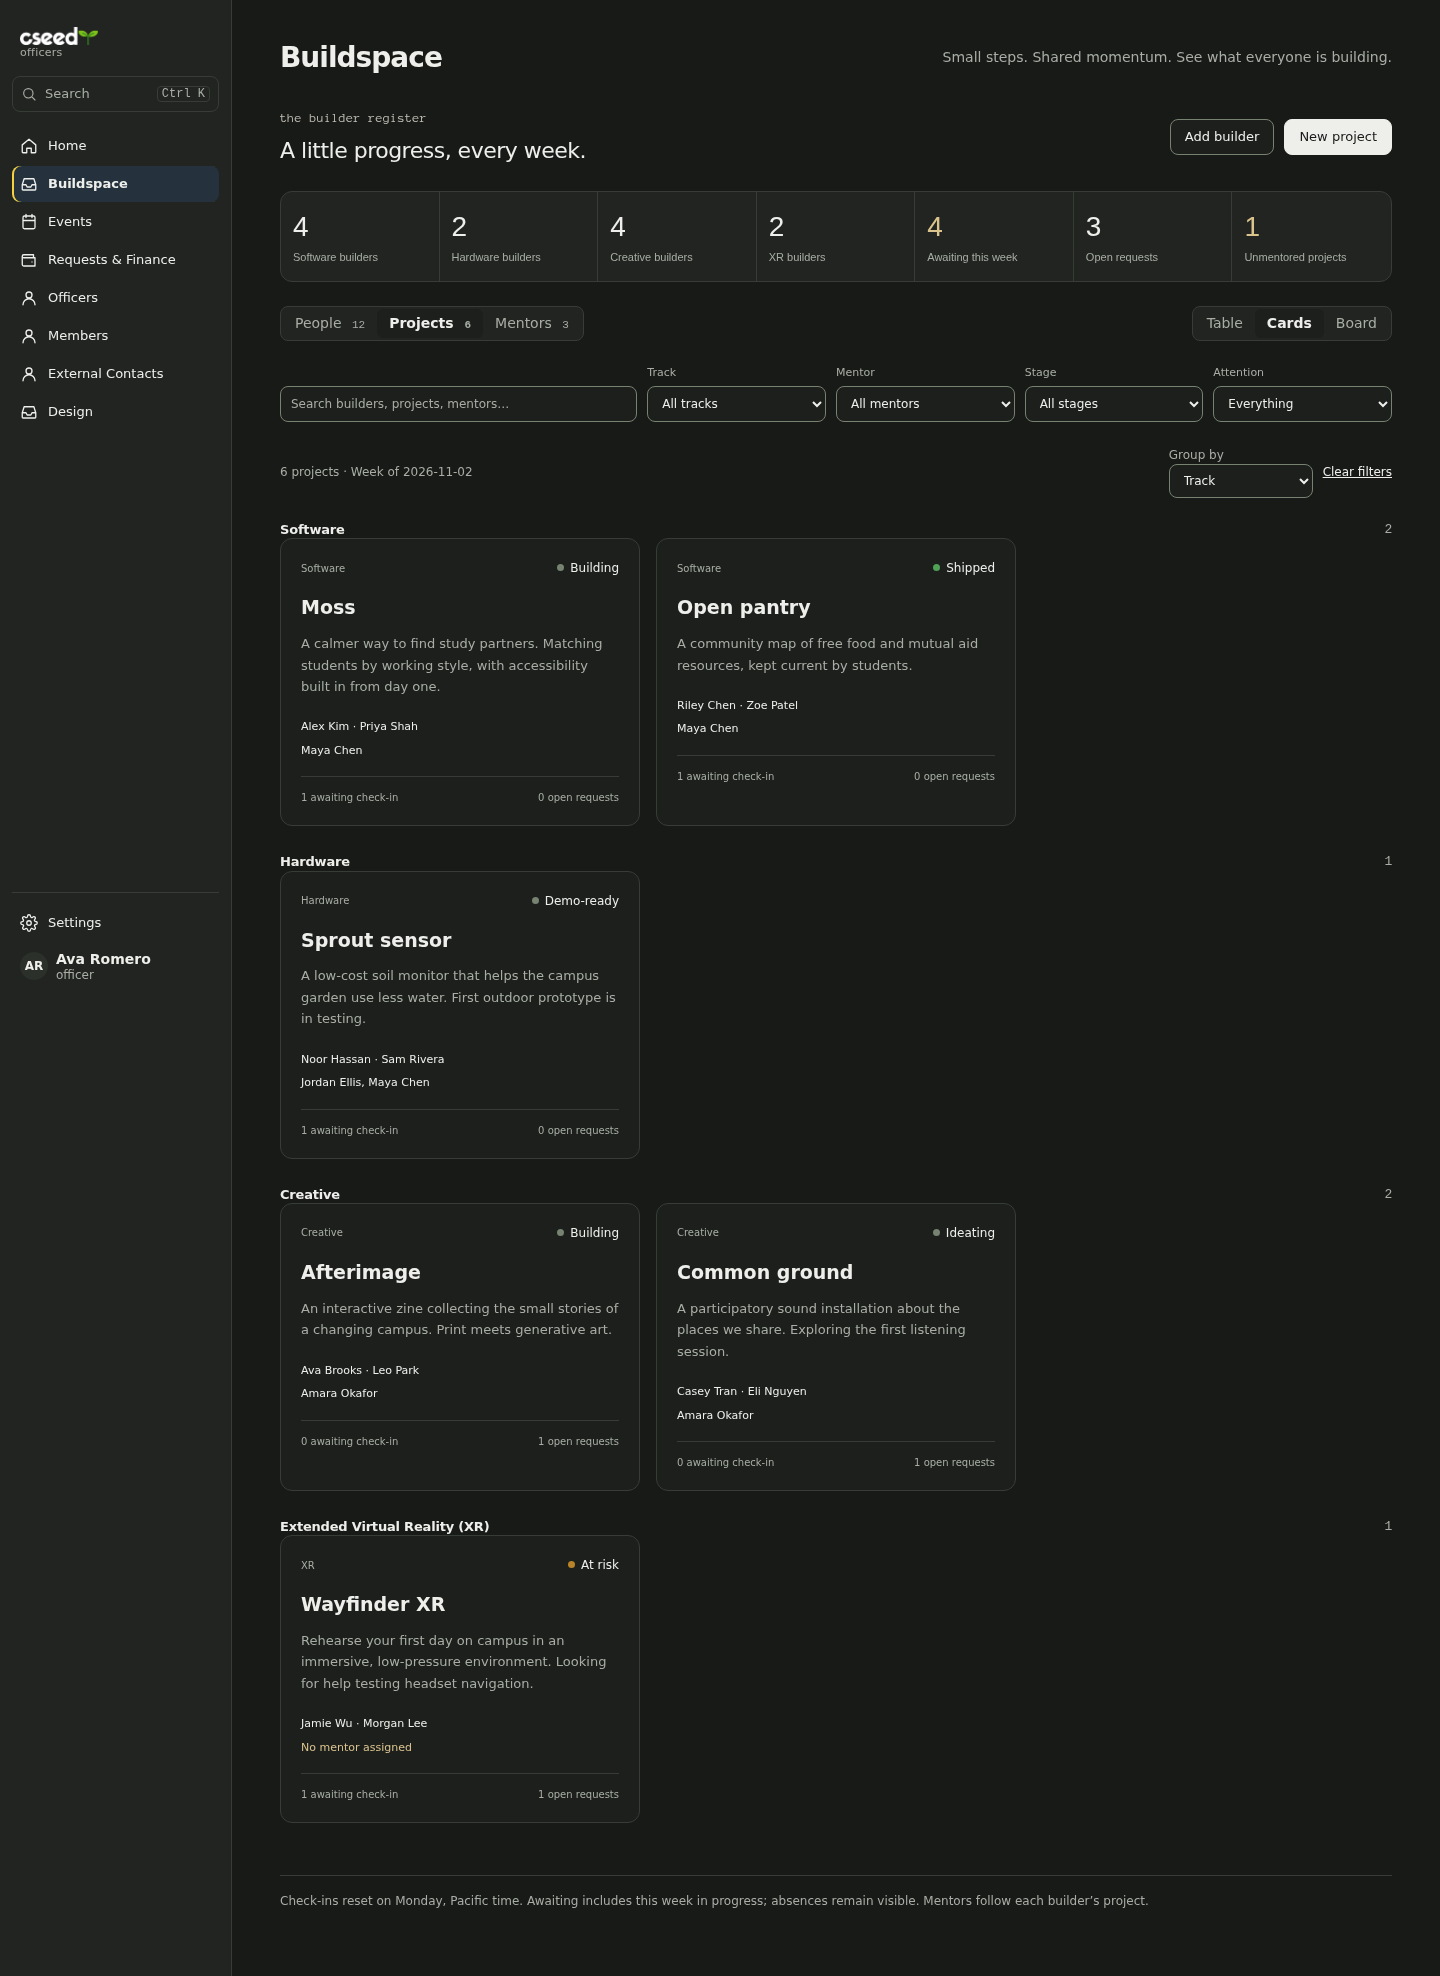
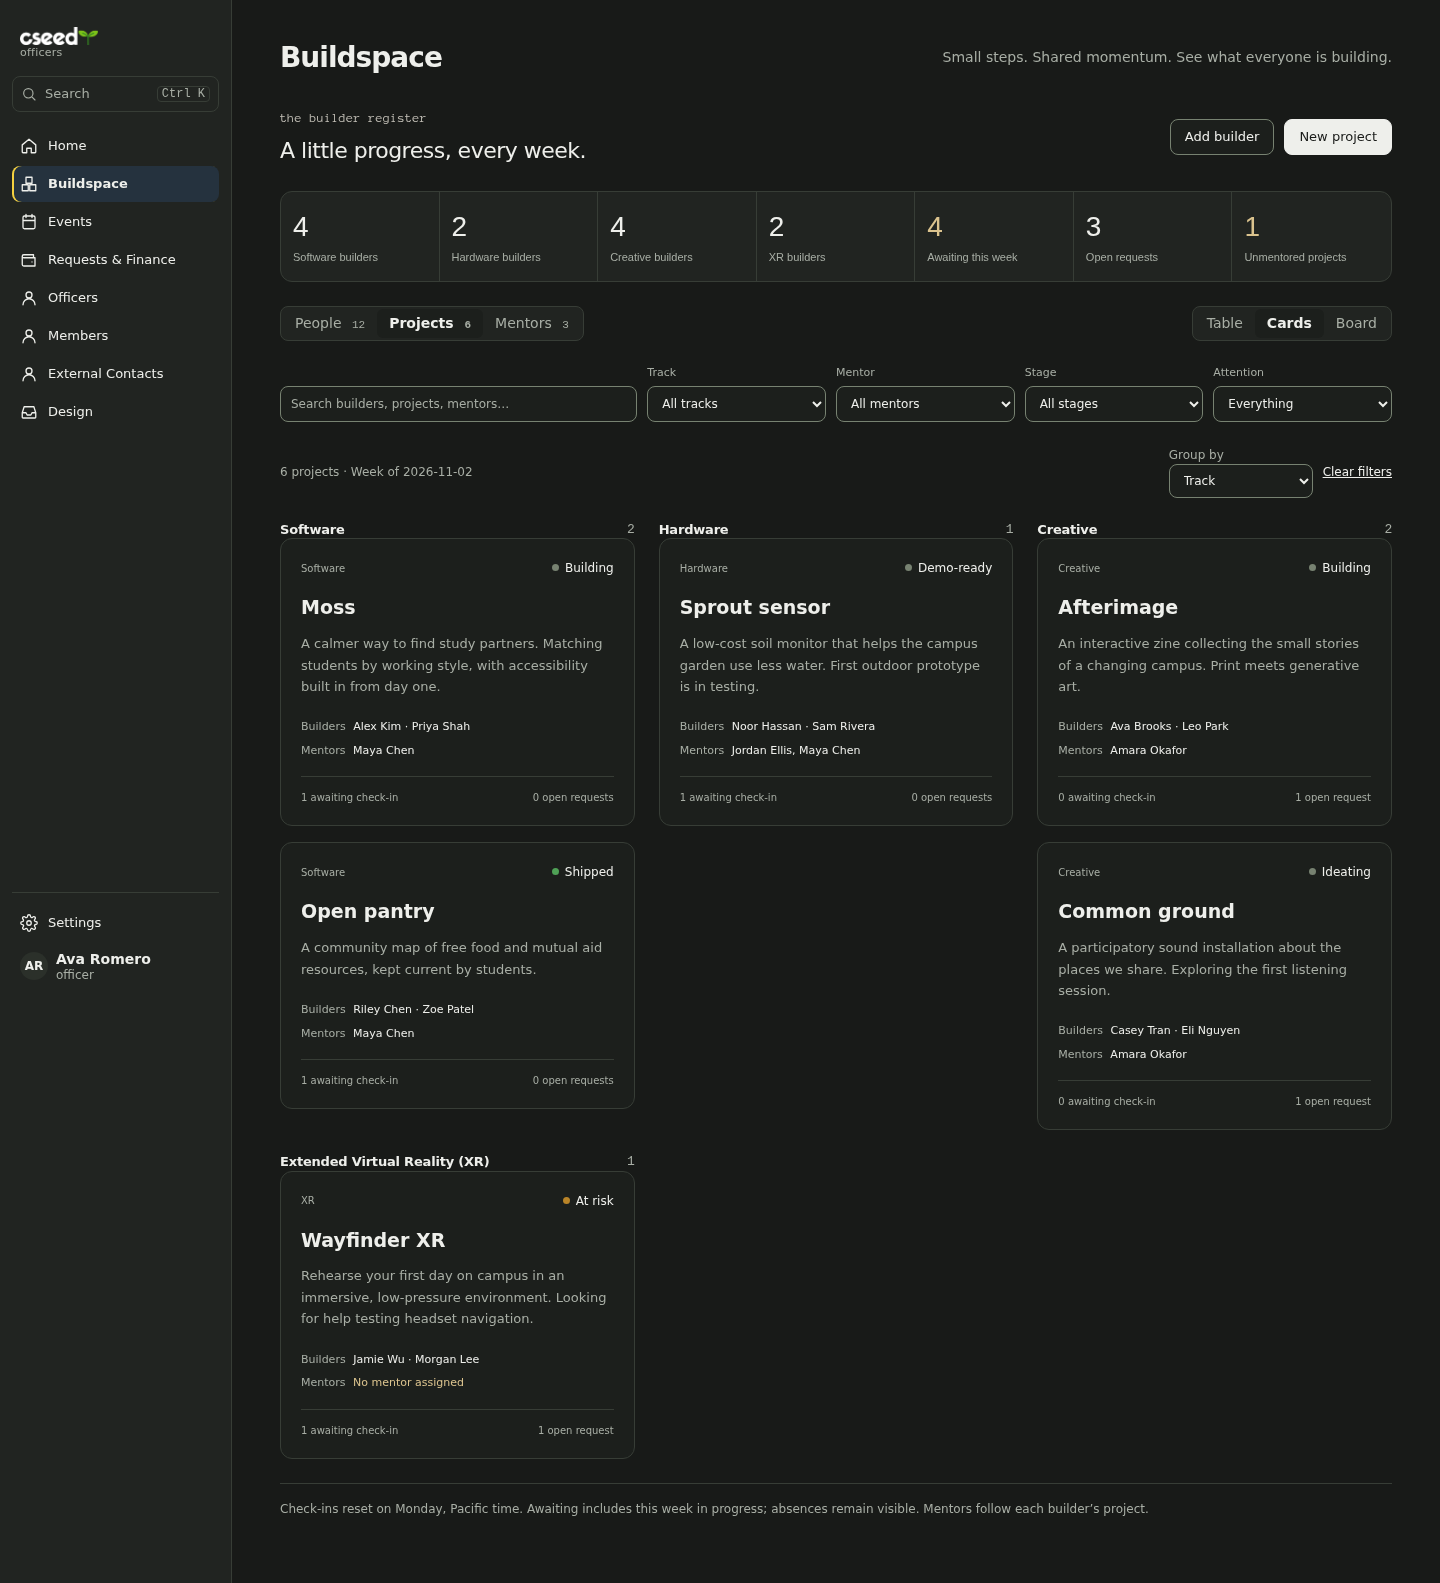
Polish Buildspace partner visibility and grouped project cards

diff --git a/web/src/ui/views/BuildspaceView.tsx b/web/src/ui/views/BuildspaceView.tsx
@@ -9,6 +9,7 @@ import { useApi } from "../../lib/api/useApi";
 import { setParams, useSearch } from "../../lib/nav";
 import { Async, Empty, Notice } from "../components/states";
 import { Badge } from "../components/kit";
+import { Icon } from "../components/Icon";
 import { Drawer } from "../components/Drawer";
 import { BuildspaceDetail } from "./buildspace/Detail";
 import { ProjectForm, PersonForm } from "./buildspace/Forms";
@@ -148,6 +149,59 @@ function BuildspaceContent({
       {p.name}
     </button>
   );
+  const requestCount = (projectId: string) => {
+    const count = b.activity.filter(
+      (a) => a.projectId === projectId && openActivity(a),
+    ).length;
+    return `${count} open ${count === 1 ? "request" : "requests"}`;
+  };
+  const activityCounts = (projectId: string, personId: string) => {
+    const activity = b.activity.filter(
+      (a) =>
+        a.projectId === projectId && (!a.personId || a.personId === personId),
+    );
+    const counts = [
+      {
+        icon: "message",
+        label: "open requests",
+        singular: "open request",
+        count: activity.filter((a) => a.kind === "request" && openActivity(a))
+          .length,
+      },
+      {
+        icon: "wallet",
+        label: "open purchases",
+        singular: "open purchase",
+        count: activity.filter((a) => a.kind === "purchase" && openActivity(a))
+          .length,
+      },
+      {
+        icon: "calendar",
+        label: "absences this week",
+        singular: "absence this week",
+        count: activity.filter(
+          (a) =>
+            a.kind === "absence" && a.date >= b.weekStart && a.date <= b.today,
+        ).length,
+      },
+    ];
+    return (
+      <span class="bs-activity-counts">
+        {counts.map((c) => (
+          <span
+            class={c.count ? "has-activity" : ""}
+            title={`${c.count} ${c.count === 1 ? c.singular : c.label}`}
+          >
+            <Icon name={c.icon} size={14} />
+            <span aria-hidden="true">{c.count}</span>
+            <span class="visually-hidden">
+              {c.count} {c.count === 1 ? c.singular : c.label}
+            </span>
+          </span>
+        ))}
+      </span>
+    );
+  };
   const card = (p: BuildspaceProject) => (
     <article class="bs-card" key={p.id} data-track={p.track}>
       <div class="bs-card-top">
@@ -158,12 +212,13 @@ function BuildspaceContent({
       <p>{p.description}</p>
       <div class="bs-card-foot">
         <span>
+          <strong>Builders</strong>{" "}
           {projectPeople(p, b)
             .map((x) => x.name)
             .join(" · ") || "No builders yet"}
         </span>
         <span class={!p.mentorIds.length ? "bs-alert" : ""}>
-          {mentorNames(p)}
+          <strong>Mentors</strong> {mentorNames(p)}
         </span>
       </div>
       <div class="bs-card-signals">
@@ -171,13 +226,7 @@ function BuildspaceContent({
           {projectPeople(p, b).filter((x) => missed(x, b)).length} awaiting
           check-in
         </span>
-        <span>
-          {
-            b.activity.filter((a) => a.projectId === p.id && openActivity(a))
-              .length
-          }{" "}
-          open requests
-        </span>
+        <span>{requestCount(p.id)}</span>
       </div>
     </article>
   );
@@ -400,7 +449,7 @@ function BuildspaceContent({
           </div>
         </>
       ) : view === "cards" ? (
-        <div>
+        <div class="bs-groups">
           {groups.map((g) => {
             const belongs = (p: BuildspaceProject) =>
               group === "mentor"
@@ -454,8 +503,14 @@ function BuildspaceContent({
                                 {p.name}
                               </button>
                             </h3>
-                            <p>{project(p.projectId).name}</p>
-                            <p>{mentorNames(project(p.projectId))}</p>
+                            <p>
+                              <strong>Project</strong>{" "}
+                              {project(p.projectId).name}
+                            </p>
+                            <p>
+                              <strong>Mentors</strong>{" "}
+                              {mentorNames(project(p.projectId))}
+                            </p>
                             <Badge
                               tone={missed(p, b) ? "attention" : "positive"}
                             >
@@ -512,9 +567,11 @@ function BuildspaceContent({
                   ? [
                       "Builder / project",
                       "Track",
+                      "Partners",
                       "Mentors",
                       "Stage",
                       "This week",
+                      "Activity",
                     ]
                   : tab === "projects"
                     ? ["Project", "Track", "Builders", "Mentors", "Stage"]
@@ -544,6 +601,24 @@ function BuildspaceContent({
                             {trackShort(pr.track)}
                           </span>
                         </td>
+                        <td data-label="Partners">
+                          {projectPeople(pr, b)
+                            .filter((partner) => partner.id !== p.id)
+                            .map((partner) => (
+                              <button
+                                class="bs-partner"
+                                aria-label={`Open partner ${partner.name}`}
+                                onClick={() =>
+                                  setParams({ person: partner.id })
+                                }
+                              >
+                                {partner.name}
+                              </button>
+                            ))}
+                          {projectPeople(pr, b).length === 1 && (
+                            <span class="bs-muted">Solo builder</span>
+                          )}
+                        </td>
                         <td
                           data-label="Mentors"
                           class={!pr.mentorIds.length ? "bs-alert" : ""}
@@ -563,6 +638,9 @@ function BuildspaceContent({
                               a.date <= b.today,
                           ) && <span class="bs-sub">Absence logged</span>}
                         </td>
+                        <td data-label="Activity">
+                          {activityCounts(pr.id, p.id)}
+                        </td>
                       </tr>
                     );
                   })
@@ -571,14 +649,7 @@ function BuildspaceContent({
                       <tr>
                         <td data-label="Project">
                           {projectLink(p)}
-                          <span class="bs-sub">
-                            {
-                              b.activity.filter(
-                                (a) => a.projectId === p.id && openActivity(a),
-                              ).length
-                            }{" "}
-                            open requests
-                          </span>
+                          <span class="bs-sub">{requestCount(p.id)}</span>
                         </td>
                         <td data-label="Track">
                           <span class="bs-track" data-track={p.track}>

diff --git a/web/src/styles/buildspace.css b/web/src/styles/buildspace.css
@@ -180,8 +180,17 @@
 .bs-track[data-track^="Extended"]:before {
   background: var(--c-violet);
 }
+.bs-groups {
+  display: grid;
+  grid-template-columns: repeat(auto-fill, minmax(min(100%, 300px), 1fr));
+  gap: 24px;
+  align-items: start;
+}
 .bs-group {
-  margin-bottom: 28px;
+  min-width: 0;
+}
+.bs-group > h3 {
+  margin-top: 0;
 }
 .bs-group > h3,
 .bs-lane > h3 {
@@ -198,7 +207,7 @@
 }
 .bs-cards {
   display: grid;
-  grid-template-columns: repeat(3, minmax(0, 1fr));
+  grid-template-columns: repeat(auto-fit, minmax(min(100%, 260px), 1fr));
   gap: 16px;
 }
 .bs-card {
@@ -399,9 +408,6 @@
   .bs-summary button {
     border-bottom: 1px solid var(--line);
   }
-  .bs-cards {
-    grid-template-columns: repeat(2, minmax(0, 1fr));
-  }
   .bs-filters .bs-search {
     flex-basis: 100%;
   }
@@ -518,6 +524,45 @@
     margin: 3px 0;
   }
   .bs-table td .bs-title {
+    min-height: 44px;
+  }
+}
+
+.bs-card-foot strong {
+  color: var(--muted);
+  font-weight: 500;
+  margin-right: 4px;
+}
+.bs-activity-counts {
+  display: inline-flex;
+  gap: 10px;
+  white-space: nowrap;
+}
+.bs-activity-counts > span {
+  display: inline-flex;
+  align-items: center;
+  gap: 4px;
+  color: var(--muted);
+  font-variant-numeric: tabular-nums;
+}
+.bs-activity-counts > .has-activity {
+  color: var(--attention);
+}
+.bs-partner {
+  display: block;
+  padding: 3px 0;
+  background: none;
+  border: 0;
+  color: var(--text);
+  font: inherit;
+  text-align: left;
+  cursor: pointer;
+}
+.bs-partner:hover {
+  text-decoration: underline;
+}
+@media (max-width: 600px) {
+  .bs-partner {
     min-height: 44px;
   }
 }

diff --git a/web/src/ui/components/Icon.tsx b/web/src/ui/components/Icon.tsx
@@ -1,6 +1,7 @@
 /** Line icons for the shell (24px grid, stroke = currentColor). */
 const PATHS: Record<string, string> = {
   pen: 'm16 3 5 5-12 12-6 1 1-6zM14 5l5 5',
+  blocks: 'M3 13h8v8H3zM13 13h8v8h-8zM8 3h8v8H8z',
   home: 'M3 10.5 12 3l9 7.5V20a1 1 0 0 1-1 1h-5v-6H9v6H4a1 1 0 0 1-1-1z',
   calendar: 'M4 6a2 2 0 0 1 2-2h12a2 2 0 0 1 2 2v13a2 2 0 0 1-2 2H6a2 2 0 0 1-2-2zM4 10h16M8 2v4M16 2v4',
   wallet: 'M3 7a2 2 0 0 1 2-2h13v4M3 7v11a2 2 0 0 0 2 2h15V9H5a2 2 0 0 1-2-2zM16 14.5h.01',

diff --git a/docs/evidence/buildspace/README.md b/docs/evidence/buildspace/README.md
@@ -1,6 +1,6 @@
 # Buildspace draft evidence
 
-Captured against the seeded Go dev server at `http://127.0.0.1:18145`, branch `v05-buildspace`, 2026-11-03, with system Chromium through Playwright. These are running application captures, with reduced motion enabled. The database was disposable and held only seeded/sample test records.
+Captured against the seeded Go dev server at `http://127.0.0.1:18145`, branch `v05-buildspace`, 2026-11-03, with system Chromium through Playwright. Refreshed after the V0.5 review polish (distinct blocks icon, partner/activity columns, labeled cards and responsive grouped layout). These are running application captures, with reduced motion enabled. The database was disposable and held only seeded/sample test records.
 
 | Directory | Desktop 1440 × 1000 | Phone 390 × 1000 |
 | --- | --- | --- |
@@ -13,11 +13,13 @@ Captured against the seeded Go dev server at `http://127.0.0.1:18145`, branch `v
 
 - People table, grouped project cards, project drawer, Escape dismissal and stage board at both widths in both themes.
 - No horizontal page overflow and no browser script errors.
+- People rows show partners, open general requests, open purchases and absences this week; project-wide entries count for each builder and person-specific absences stay scoped to that person.
+- Cards label builders and mentors, show “1 open request” for singular counts, and track groups occupy multiple desktop columns.
 - Search filters persist in the URL and survive reloads.
 - Manual weekly entry saved from a person drawer and read back from the API with that builder's ID.
 - Project and builder creation saved and read back through the API.
 - Editing the seeded Hardware / Demo-ready project preselects its saved track and stage; changing its stage to Shipped preserves its two mentors and track.
 
-The captures precede the create/edit tests, so the screenshots show the original seeded cohort. All created test records stayed in `/tmp/buildspace-verify.db`. Browser raw evidence and the temporary runner are under ignored `tmp/verify/buildspace/` in the implementation worktree. No live Discord bot, real member credentials, production database or external delivery was used.
+The captures precede the create/edit tests, so the screenshots show the original seeded cohort. All created test records stayed in `/tmp/buildspace-review.db`. Browser raw evidence and the temporary runner are under ignored `tmp/verify/buildspace/` in the implementation worktree. No live Discord bot, real member credentials, production database or external delivery was used.
 
 API contracts and focused Go tests additionally cover membership/mentor validation, unsafe links, duplicate mentors, scoped authentication, identity spoofing, duplicate message retries, conflicting replays, wrong scopes, token revocation and Finance status ownership. See [the feature guide](../../buildspace.md) for the bot handoff and draft limits.

diff --git a/docs/buildspace.md b/docs/buildspace.md
@@ -10,7 +10,7 @@ Builder records can link to a local Members mirror ID and a unique Discord user 
 
 The activity register supports weekly check-ins, mentor notes, general requests, purchase needs and absences. Entries can describe a whole project or a builder on it; weekly updates require a builder, and mentor check-ins require a currently assigned mentor. Person details include that person's entries plus project-wide activity, while project details include all activity. Entries are append-only, except that open, unlinked requests/purchase needs can be marked resolved. A linked Finance purchase reads its live title and status; Finance owns that lifecycle. Buildspace does not change the purchase's permissions or ledger.
 
-The People, Projects and Mentors tabs support search, track, mentor, stage and attention filters. Table is the directory view; grouped cards use track, mentor or project; the board always shows projects by stage, with stage edits available in the project drawer. Shared projects appear under each of their mentors. URL parameters preserve the tab, layout, grouping, filters and selected person/project. Summary counts show the whole cohort and act as filters.
+The People, Projects and Mentors tabs support search, track, mentor, stage and attention filters. The People table includes clickable partners and compact labeled counts for open requests, open purchases and absences this week (including project-wide entries plus the person’s own activity). Table is the directory view; grouped cards use track, mentor or project; the board always shows projects by stage, with stage edits available in the project drawer. Shared projects appear under each of their mentors. URL parameters preserve the tab, layout, grouping, filters and selected person/project. Summary counts show the whole cohort and act as filters.
 
 Weeks start Monday in Pacific time. “Awaiting this week” means a builder who has joined and has no dated weekly entry between Monday and today, including the current week in progress; it is a follow-up signal, not an overdue attendance verdict. Absences do not erase the follow-up signal. The absence filter covers dated absences this week. No automatic reminders are sent.
 
